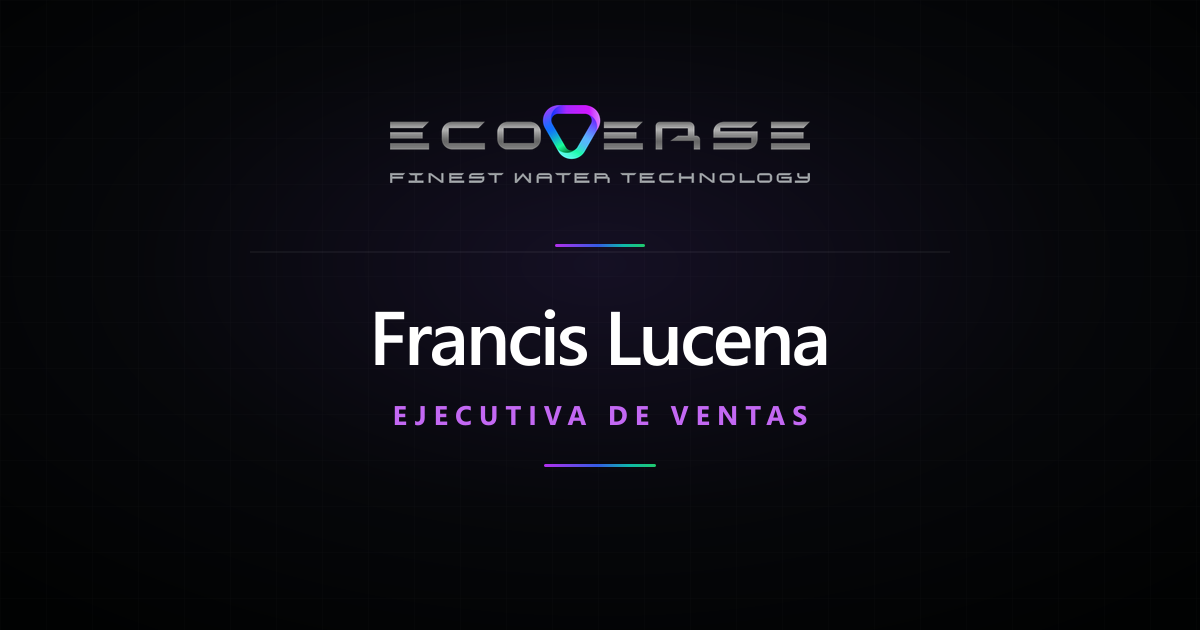
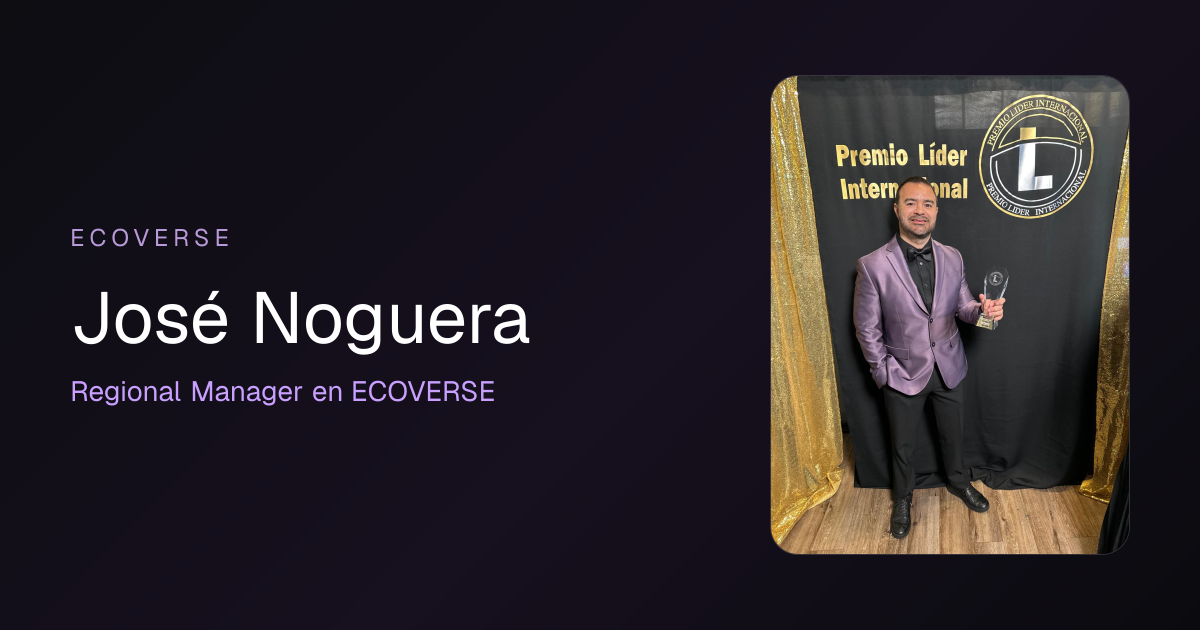
fix: use static large social preview

diff --git a/src/app/layout.tsx b/src/app/layout.tsx
@@ -2,29 +2,63 @@ import type { Metadata, Viewport } from "next";
 import type { ReactNode } from "react";
 import "./globals.css";
 
-const productionUrl = process.env.NEXT_PUBLIC_CARD_URL
-  ?? (process.env.VERCEL_PROJECT_PRODUCTION_URL ? `https://${process.env.VERCEL_PROJECT_PRODUCTION_URL}` : "http://localhost:3000");
+const productionUrl =
+  "https://ecoverse-jose-noguera.vercel.app";
 
 export const metadata: Metadata = {
   metadataBase: new URL(productionUrl),
-  title: "Francis Lucena | ECOVERSE",
-  description: "Ejecutiva de Ventas en ECOVERSE",
+
+  title: "José Noguera | ECOVERSE",
+
+  description:
+    "Regional Manager en ECOVERSE",
+
   applicationName: "ECOVERSE Card",
+
   openGraph: {
-    title: "Francis Lucena | ECOVERSE",
-    description: "Ejecutiva de Ventas en ECOVERSE",
+    title: "José Noguera | ECOVERSE",
+    description:
+      "Regional Manager en ECOVERSE",
     type: "profile",
-    images: [{ url: "/og.png", width: 1200, height: 630, alt: "Francis Lucena — Ejecutiva de Ventas en ECOVERSE" }],
+
+    images: [
+      {
+        url: "/og.png",
+        width: 1200,
+        height: 630,
+        alt: "José Noguera — Regional Manager en ECOVERSE",
+      },
+    ],
   },
+
   twitter: {
     card: "summary_large_image",
-    title: "Francis Lucena | ECOVERSE",
-    description: "Ejecutiva de Ventas en ECOVERSE",
+
+    title:
+      "José Noguera | ECOVERSE",
+
+    description:
+      "Regional Manager en ECOVERSE",
+
     images: ["/og.png"],
   },
 };
-export const viewport: Viewport = { width: "device-width", initialScale: 1, themeColor: "#050607", colorScheme: "dark light" };
 
-export default function RootLayout({ children }: { children: ReactNode }) {
-  return <html lang="es"><body>{children}</body></html>;
+export const viewport: Viewport = {
+  width: "device-width",
+  initialScale: 1,
+  themeColor: "#050607",
+  colorScheme: "dark light",
+};
+
+export default function RootLayout({
+  children,
+}: {
+  children: ReactNode;
+}) {
+  return (
+    <html lang="es">
+      <body>{children}</body>
+    </html>
+  );
 }
